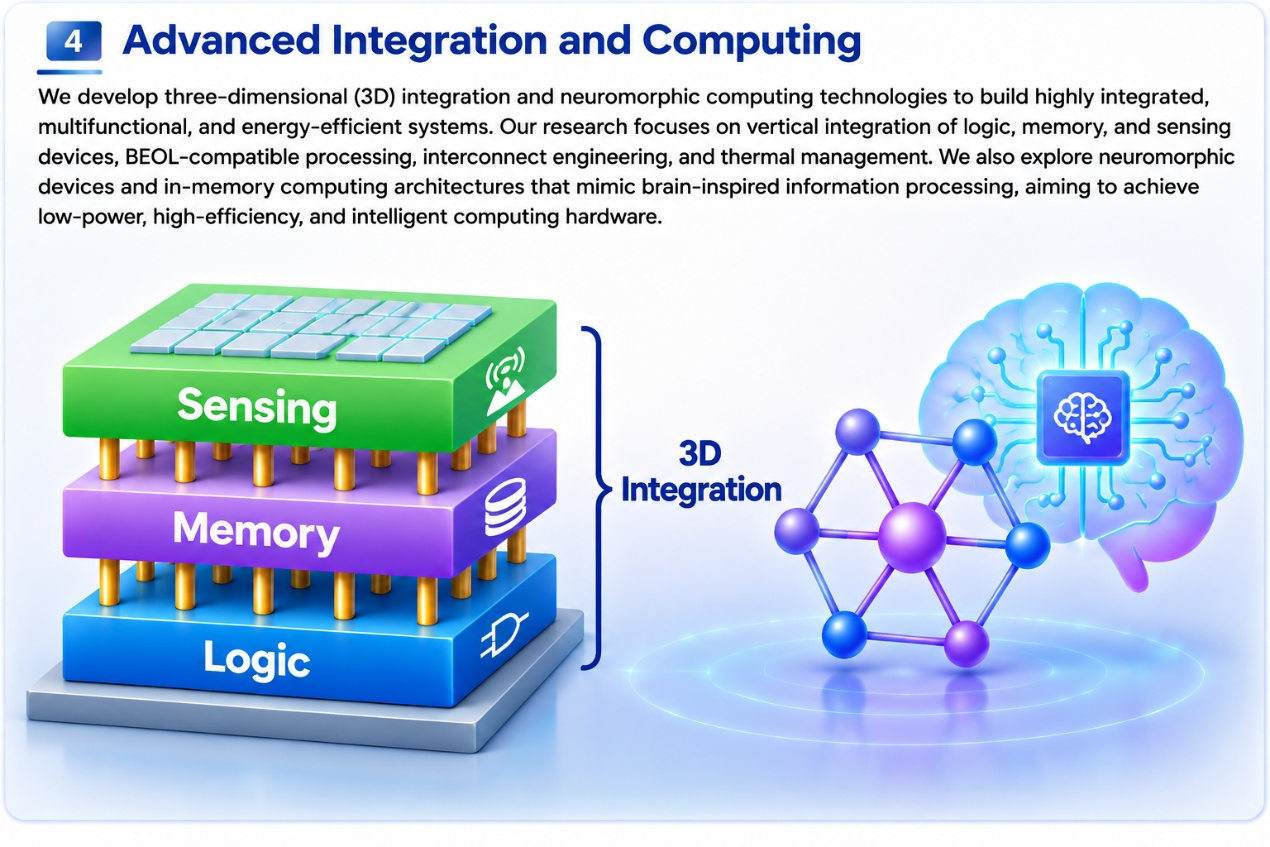
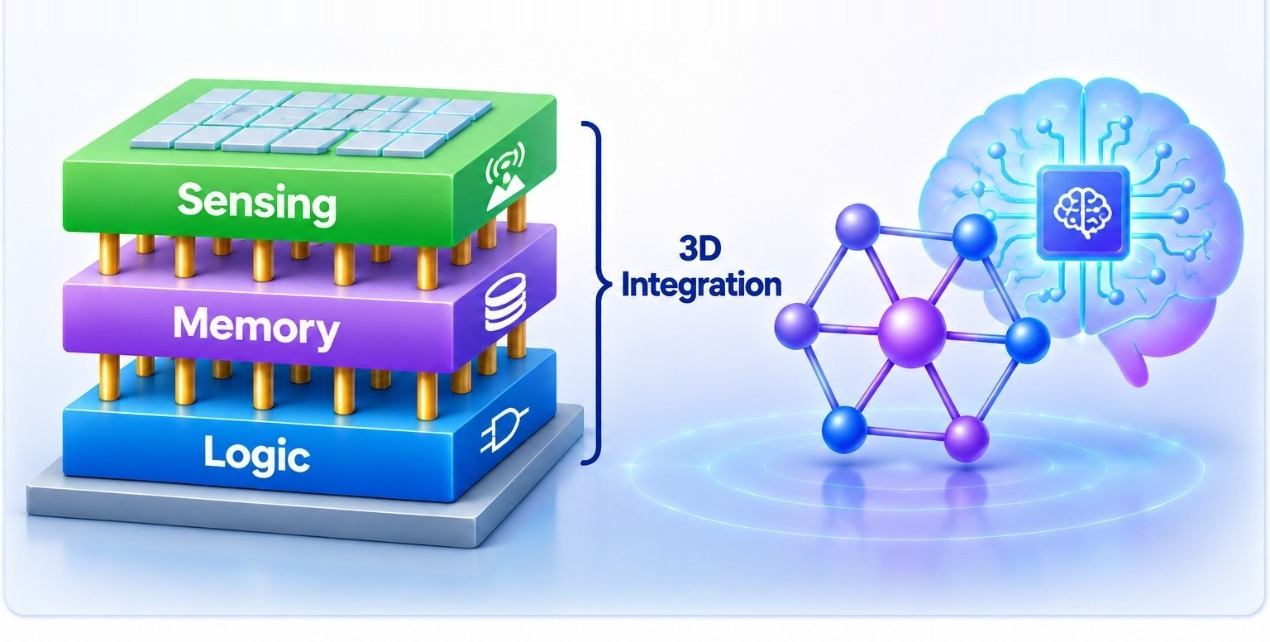
Research diagrams: trim the duplicated text band, keep 28px headroom

diff --git a/research.html b/research.html
@@ -49,7 +49,7 @@
           </div>
           <figure class="theme-figure">
             <a href="assets/research/emerging-materials.jpg" target="_blank" rel="noopener">
-              <img src="assets/research/emerging-materials.png" alt="Diagram: WSe2, InGaZnO and AlScN crystal structures" width="1269" height="952" loading="lazy" decoding="async">
+              <img src="assets/research/emerging-materials.png" alt="Diagram: WSe2, InGaZnO and AlScN crystal structures" width="1269" height="636" loading="lazy" decoding="async">
             </a>
           </figure>
         </article>
@@ -62,7 +62,7 @@
           </div>
           <figure class="theme-figure">
             <a href="assets/research/quantum-transport.jpg" target="_blank" rel="noopener">
-              <img src="assets/research/quantum-transport.jpg" alt="Diagram: cryogenic quantum transport measurement with magnetic field and quantum oscillations" width="1268" height="953" loading="lazy" decoding="async">
+              <img src="assets/research/quantum-transport.jpg" alt="Diagram: cryogenic quantum transport measurement with magnetic field and quantum oscillations" width="1268" height="558" loading="lazy" decoding="async">
             </a>
           </figure>
         </article>
@@ -75,7 +75,7 @@
           </div>
           <figure class="theme-figure">
             <a href="assets/research/advanced-electronics.jpg" target="_blank" rel="noopener">
-              <img src="assets/research/advanced-electronics.jpg" alt="Diagram: memory, logic gate and power device architectures" width="1269" height="952" loading="lazy" decoding="async">
+              <img src="assets/research/advanced-electronics.jpg" alt="Diagram: memory, logic gate and power device architectures" width="1269" height="626" loading="lazy" decoding="async">
             </a>
           </figure>
         </article>
@@ -88,7 +88,7 @@
           </div>
           <figure class="theme-figure">
             <a href="assets/research/advanced-integration.jpg" target="_blank" rel="noopener">
-              <img src="assets/research/advanced-integration.jpg" alt="Diagram: 3D integration of sensing, memory and logic feeding a neuromorphic network" width="1270" height="847" loading="lazy" decoding="async">
+              <img src="assets/research/advanced-integration.jpg" alt="Diagram: 3D integration of sensing, memory and logic feeding a neuromorphic network" width="1270" height="642" loading="lazy" decoding="async">
             </a>
           </figure>
         </article>
